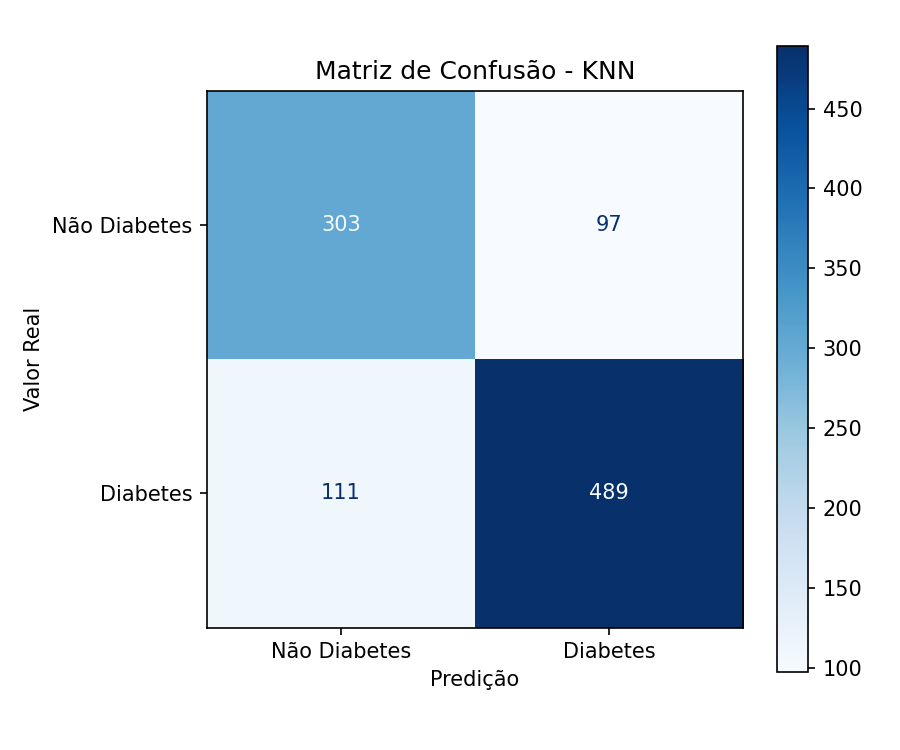
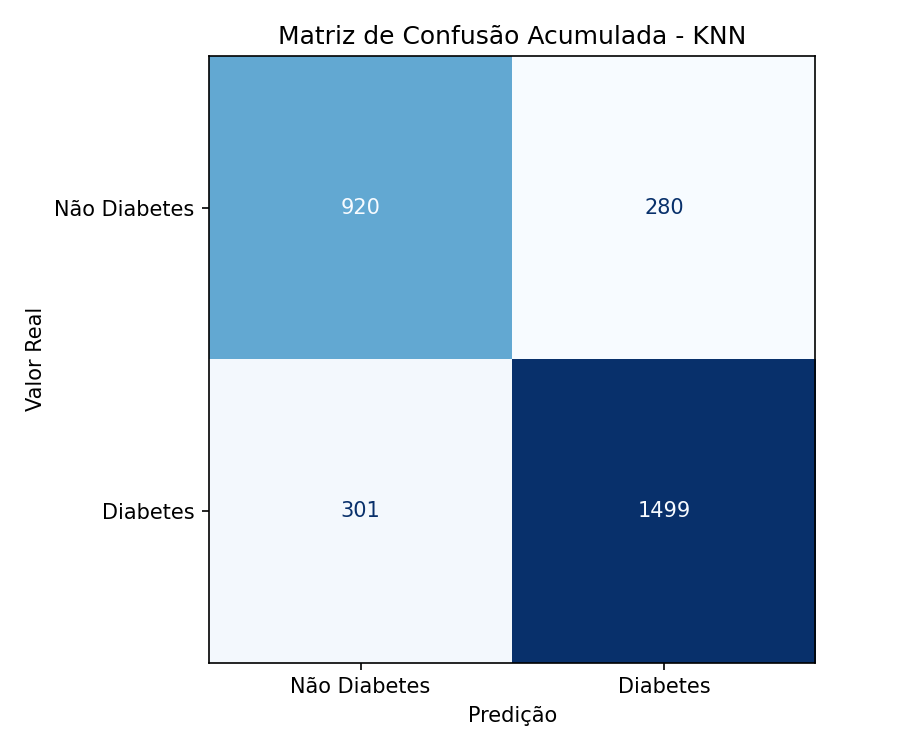
repeat algorithms and readme

diff --git a/Diabetes-Classification/src/main.py b/Diabetes-Classification/src/main.py
@@ -1,4 +1,5 @@
 from __future__ import annotations
+from collections import Counter
 import argparse
 from pathlib import Path
 import matplotlib
@@ -119,68 +120,97 @@ def _run_data_quality_assessment(
 
 
 def _evaluate_models(
-	X_train: np.ndarray,
-	X_test: np.ndarray,
-	y_train: np.ndarray,
-	y_test: np.ndarray,
-	feature_names: list[str],
+	raw_df: pd.DataFrame,
+	n_repeats: int,
 	output_dirs: dict[str, Path],
 ) -> pd.DataFrame:
 	models = get_all_models()
+	model_stats: dict[str, dict[str, object]] = {}
+
+	for model_name in models.keys():
+		model_stats[model_name] = {
+			"accuracy": [],
+			"precision": [],
+			"recall": [],
+			"f1_score": [],
+			"f1_cv_media": [],
+			"f1_cv_desvio": [],
+			"cm_sum": np.zeros((2, 2), dtype=int),
+			"top3_list": [],
+		}
+
+	for repeat_index in range(n_repeats):
+		repeat_seed = 42 + repeat_index
+		print(f"  Repetição {repeat_index + 1}/{n_repeats} (seed={repeat_seed})")
+
+		X_train, X_test, y_train, y_test, feature_names = prepare_features(
+			raw_df,
+			random_state=repeat_seed,
+		)
+
+		for model_name, pipeline in get_all_models().items():
+			cv = StratifiedKFold(n_splits=5, shuffle=True, random_state=repeat_seed)
+			cv_scores = cross_val_score(
+				pipeline,
+				X_train,
+				y_train,
+				cv=cv,
+				scoring="f1",
+				n_jobs=None,
+			)
+
+			pipeline.fit(X_train, y_train)
+			y_pred = pipeline.predict(X_test)
+			cm = confusion_matrix(y_test, y_pred)
+
+			feature_importances = get_selected_feature_importances(
+				trained_pipeline=pipeline,
+				feature_names=feature_names,
+			)
+			top3_features = ", ".join(
+				feature_name
+				for feature_name, _ in feature_importances[:3]
+			)
+
+			stats = model_stats[model_name]
+			stats["accuracy"].append(float(accuracy_score(y_test, y_pred)))
+			stats["precision"].append(float(precision_score(y_test, y_pred, zero_division=0)))
+			stats["recall"].append(float(recall_score(y_test, y_pred, zero_division=0)))
+			stats["f1_score"].append(float(f1_score(y_test, y_pred, zero_division=0)))
+			stats["f1_cv_media"].append(float(np.mean(cv_scores)))
+			stats["f1_cv_desvio"].append(float(np.std(cv_scores)))
+			stats["cm_sum"] += cm
+			stats["top3_list"].append(top3_features)
+
 	rows: list[dict[str, float | str]] = []
-
-	for model_name, pipeline in models.items():
-		print(f"Treinando {model_name}...")
-
-		cv = StratifiedKFold(n_splits=5, shuffle=True, random_state=42)
-		cv_scores = cross_val_score(
-			pipeline,
-			X_train,
-			y_train,
-			cv=cv,
-			scoring="f1",
-			n_jobs=None,
-		)
-
-		pipeline.fit(X_train, y_train)
-
-		y_pred = pipeline.predict(X_test)
-		cm = confusion_matrix(y_test, y_pred)
-		feature_importances = get_selected_feature_importances(
-			trained_pipeline=pipeline,
-			feature_names=feature_names,
-		)
-		top3_features = ", ".join(
-			feature_name
-			for feature_name, _ in feature_importances[:3]
-		)
+	for model_name, stats in model_stats.items():
+		most_common_top3 = Counter(stats["top3_list"]).most_common(1)[0][0]
+		cm_sum = stats["cm_sum"]
 
 		rows.append(
 			{
 				"modelo": model_name,
-				"top3_atributos": top3_features,
-				"f1_cv_media": float(np.mean(cv_scores)),
-				"f1_cv_desvio": float(np.std(cv_scores)),
-				"accuracy": accuracy_score(y_test, y_pred),
-				"precision": precision_score(y_test, y_pred, zero_division=0),
-				"recall": recall_score(y_test, y_pred, zero_division=0),
-				"f1_score": f1_score(y_test, y_pred, zero_division=0),
-				"verdadeiro_negativo": int(cm[0, 0]),
-				"falso_positivo": int(cm[0, 1]),
-				"falso_negativo": int(cm[1, 0]),
-				"verdadeiro_positivo": int(cm[1, 1]),
+				"top3_atributos": most_common_top3,
+				"f1_cv_media": float(np.mean(stats["f1_cv_media"])),
+				"f1_cv_desvio": float(np.mean(stats["f1_cv_desvio"])),
+				"accuracy": float(np.mean(stats["accuracy"])),
+				"precision": float(np.mean(stats["precision"])),
+				"recall": float(np.mean(stats["recall"])),
+				"f1_score": float(np.mean(stats["f1_score"])),
+				"verdadeiro_negativo": int(cm_sum[0, 0]),
+				"falso_positivo": int(cm_sum[0, 1]),
+				"falso_negativo": int(cm_sum[1, 0]),
+				"verdadeiro_positivo": int(cm_sum[1, 1]),
 			}
 		)
 
 		fig_cm, ax_cm = plt.subplots(figsize=(6, 5))
-		ConfusionMatrixDisplay.from_predictions(
-			y_test,
-			y_pred,
+		disp = ConfusionMatrixDisplay(
+			confusion_matrix=cm_sum,
 			display_labels=["Não Diabetes", "Diabetes"],
-			ax=ax_cm,
-			cmap="Blues",
 		)
-		ax_cm.set_title(f"Matriz de Confusão - {model_name}")
+		disp.plot(ax=ax_cm, cmap="Blues", colorbar=False)
+		ax_cm.set_title(f"Matriz de Confusão Acumulada - {model_name}")
 		ax_cm.set_xlabel("Predição")
 		ax_cm.set_ylabel("Valor Real")
 		fig_cm.tight_layout()
@@ -209,6 +239,12 @@ def main() -> None:
 		default="outputs",
 		help="Diretório para salvar tabelas e gráficos.",
 	)
+	parser.add_argument(
+		"--n-repeats",
+		type=int,
+		default=3,
+		help="Quantidade de repetições do experimento para média das métricas.",
+	)
 	args = parser.parse_args()
 
 	project_root = Path(__file__).resolve().parents[1]
@@ -224,14 +260,12 @@ def main() -> None:
 	print("[3/4] Avaliando qualidade dos dados e pré-processamento...")
 	_run_data_quality_assessment(df=raw_df, output_dirs=output_dirs)
 
-	print("[4/4] Treinando modelos e avaliando métricas (com validação cruzada)...")
-	X_train, X_test, y_train, y_test, feature_names = prepare_features(raw_df)
+	print(
+		f"[4/4] Treinando modelos e avaliando métricas (com validação cruzada e {args.n_repeats} repetições)..."
+	)
 	comparison_df = _evaluate_models(
-		X_train=X_train,
-		X_test=X_test,
-		y_train=y_train,
-		y_test=y_test,
-		feature_names=feature_names,
+		raw_df=raw_df,
+		n_repeats=args.n_repeats,
 		output_dirs=output_dirs,
 	)
 

diff --git a/Diabetes-Classification/src/preprocessing.py b/Diabetes-Classification/src/preprocessing.py
@@ -24,7 +24,7 @@ def load_raw_data(path: str, n_samples: int) -> pd.DataFrame:
     print(f"Dataset reduzido: {len(sampled_df)} linhas")
     return sampled_df
 
-def prepare_features(df: pd.DataFrame):
+def prepare_features(df: pd.DataFrame, random_state: int = 42):
     # Separar atributos e alvo
     X = df.drop(columns=[
         "diagnosed_diabetes",
@@ -37,7 +37,7 @@ def prepare_features(df: pd.DataFrame):
         X, y,
         test_size=0.2,
         stratify=y,
-        random_state=42
+        random_state=random_state
     )
     # Separa colunas categóricas e numéricas para evitar one-hot em variáveis contínuas.
     categorical_cols = X_train.select_dtypes(

diff --git a/README.md b/README.md
@@ -35,12 +35,11 @@ Segundo José Antonio Miguel Marcondes (2003), o diabete afeta aproximadamente d
 
 Este trabalho, desenvolvido na disciplina de Inteligência Computacional, utiliza a base pública **Diabetes Health Indicators Dataset** (Kaggle), com `100.000` registros e `31` atributos, para um problema de **classificação binária** cujo alvo é `diagnosed_diabetes` (`0` ou `1`). A base reúne variáveis sociodemográficas, hábitos de vida, histórico clínico e biomarcadores, o que a torna adequada ao enunciado por conter atributos heterogêneos e permitir uma metodologia experimental realista.
 
+Com base nas dificuldades que serão apresentadas posteriormente, necessitou-se da aplicação de etapas de pré-processamento, dentre elas a codificação de atributos categóricos (através do `OneHotEncoder` da biblioteca `sklearn`), a separação estratificada entre treino e teste, a padronização de atributos numéricos para modelos sensíveis à escala (`KNN` e `SVM`) e a seleção embarcada de atributos com `SelectFromModel` + `RandomForestClassifier`. Em conjunto, essas etapas reduziram ruído, preservaram representatividade da classe-alvo e melhoraram a comparabilidade entre os classificadores.
 
 ## Metodologia Adotada e Consolidação no Código
 
-As implementações principais estão em `Diabetes-Classification/src/preprocessing.py`, `Diabetes-Classification/src/models.py` e `Diabetes-Classification/src/main.py`. O fluxo foi simplificado para priorizar o que o enunciado e a orientação docente cobram com maior ênfase: **processamento dos dados e modelagem**, mantendo avaliação objetiva e reprodutível.
-
-No pré-processamento foi mantida a amostragem estratificada (quando aplicável), garantindo representatividade da classe-alvo ao reduzir a base:
+As implementações principais estão em `Diabetes-Classification/src/preprocessing.py`, `Diabetes-Classification/src/models.py` e `Diabetes-Classification/src/main.py`. O fluxo foi simplificado para priorizar o que o enunciado e a orientação docente cobram com maior ênfase que é processamento dos dados e modelagem, mantendo avaliação objetiva e reprodutível. No pré-processamento foi mantida a amostragem estratificada (quando aplicável), garantindo representatividade da classe-alvo ao reduzir a base:
 
 ```python
 if n_samples < len(df):
@@ -66,7 +65,7 @@ resumo_exploratorio = pd.DataFrame(
 )
 ```
 
-No `main.py`, a função `_run_data_quality_assessment` consolida integridade da base em um único resumo com: total de ausentes, total de duplicados, proporção da classe positiva e maior percentual de outliers por IQR. A avaliação de qualidade continua formal, mas enxuta, reduzindo excesso de artefatos e mantendo rastreabilidade para decisões de processamento. Quando aplicável, as decisões de tratamento são tomadas a partir desses indicadores, nesta base/amostra atual, os resultados indicaram ausência de valores faltantes e duplicatas, não exigindo imputação ou deduplicação adicional nesta etapa.
+No `main.py`, a função `_run_data_quality_assessment` consolida integridade da base em um único resumo com total de ausentes, total de duplicados, proporção da classe positiva e maior percentual de outliers por IQR. A avaliação de qualidade continua formal, mas enxuta, reduzindo excesso de artefatos e mantendo rastreabilidade para decisões de processamento. Quando aplicável, as decisões de tratamento são tomadas a partir desses indicadores, nesta base/amostra atual, os resultados indicaram ausência de valores faltantes e duplicatas, não exigindo imputação ou deduplicação adicional nesta etapa.
 
 ```python
     quality_summary = {
@@ -78,10 +77,11 @@ No `main.py`, a função `_run_data_quality_assessment` consolida integridade da
     }
 ```
 
-A função `_evaluate_models` treina `KNN`, `SVM` e `DecisionTree` sob o mesmo protocolo, calcula `accuracy`, `precision`, `recall`, `f1-score`, componentes da matriz de confusão e adiciona validação cruzada estratificada para robustez. A avaliação multimensura evita decisões baseadas só em acurácia e permite observar o equilíbrio dos erros por matriz de confusão.
+A função `_evaluate_models` treina `KNN`, `SVM` e `DecisionTree` sob o mesmo protocolo, calcula `accuracy`, `precision`, `recall`, `f1-score`, componentes da matriz de confusão e adiciona validação cruzada estratificada para robustez. Para justiça experimental, cada modelo é avaliado em **3 repetições** com sementes distintas e as métricas finais são reportadas por **média**, reduzindo viés de uma única partição treino/teste.
 
 ```python
-    cv = StratifiedKFold(n_splits=5, shuffle=True, random_state=42)
+    repeat_seed = 42 + repeat_index
+    cv = StratifiedKFold(n_splits=5, shuffle=True, random_state=repeat_seed)
     cv_scores = cross_val_score(
         pipeline,
         X_train,
@@ -95,26 +95,26 @@ A função `_evaluate_models` treina `KNN`, `SVM` e `DecisionTree` sob o mesmo p
     rows.append(
         {
             "modelo": model_name,
-            "f1_cv_media": float(np.mean(cv_scores)),
-            "f1_cv_desvio": float(np.std(cv_scores)),
-            "accuracy": accuracy_score(y_test, y_pred),
-            "precision": precision_score(y_test, y_pred, zero_division=0),
-            "recall": recall_score(y_test, y_pred, zero_division=0),
-            "f1_score": f1_score(y_test, y_pred, zero_division=0),
-            "verdadeiro_negativo": int(cm[0, 0]),
-            "falso_positivo": int(cm[0, 1]),
-            "falso_negativo": int(cm[1, 0]),
-            "verdadeiro_positivo": int(cm[1, 1]),
+            "f1_cv_media": float(np.mean(stats["f1_cv_media"])),
+            "f1_cv_desvio": float(np.mean(stats["f1_cv_desvio"])),
+            "accuracy": float(np.mean(stats["accuracy"])),
+            "precision": float(np.mean(stats["precision"])),
+            "recall": float(np.mean(stats["recall"])),
+            "f1_score": float(np.mean(stats["f1_score"])),
+            "verdadeiro_negativo": int(cm_sum[0, 0]),
+            "falso_positivo": int(cm_sum[0, 1]),
+            "falso_negativo": int(cm_sum[1, 0]),
+            "verdadeiro_positivo": int(cm_sum[1, 1]),
         }
 )
 ```
 
-Para manter o foco pedagógico em modelagem, a discussão final é feita a partir das tabelas e matrizes de confusão geradas: comparação dos `f1_cv_media` e `f1_score`, análise de falsos positivos/falsos negativos e leitura dos `top3_atributos` por modelo. Isso mantém a entrega enxuta e suficiente para discutir decisões metodológicas sem excesso de visualizações.
+Para manter o foco pedagógico em modelagem, a discussão final é feita a partir das tabelas e matrizes de confusão geradas como comparação dos `f1_cv_media` e `f1_score`, análise de falsos positivos/falsos negativos e leitura dos `top3_atributos` por modelo. Isso mantém a entrega enxuta e suficiente para discutir decisões metodológicas sem excesso de visualizações.
 
 
 ## Resultados
 
-Os resultados abaixo referem-se à execução com `n_samples=5000`, seguindo o protocolo implementado no `main.py`.
+Os resultados abaixo referem-se à execução com `n_samples=5000` e `n_repeats=3`, seguindo o protocolo implementado no `main.py`.
 
 - Total de registros analisados: `5000`
 - Valores ausentes: `0`
@@ -126,9 +126,9 @@ Os resultados abaixo referem-se à execução com `n_samples=5000`, seguindo o p
 
 | Modelo | F1 (CV média) | F1 (teste) | Accuracy | Precision | Recall |
 |---|---:|---:|---:|---:|---:|
-| SVM | 0.8860 | **0.8692** | **0.8510** | **0.9184** | 0.8250 |
-| DecisionTree | **0.8885** | 0.8623 | 0.8330 | 0.8532 | **0.8717** |
-| KNN | 0.8361 | 0.8246 | 0.7920 | 0.8345 | 0.8150 |
+| SVM | 0.8816 | **0.8858** | **0.8680** | **0.9198** | 0.8544 |
+| DecisionTree | **0.8863** | 0.8800 | 0.8543 | 0.8702 | **0.8900** |
+| KNN | 0.8313 | 0.8376 | 0.8063 | 0.8426 | 0.8328 |
 
 Top-3 atributos mais relevantes (comum aos modelos nesta execução): `hba1c`, `glucose_postprandial`, `glucose_fasting`.
 
@@ -145,9 +145,9 @@ Top-3 atributos mais relevantes (comum aos modelos nesta execução): `hba1c`, `
 </p>
 
 
-1. `SVM` apresentou o melhor equilíbrio no conjunto de teste, com maior `F1-score` e maior `accuracy`.
+1. `SVM` apresentou o melhor equilíbrio nas métricas médias de teste, com maior `F1-score` e maior `accuracy` após 3 repetições.
 2. `DecisionTree` teve melhor média de `F1` na validação cruzada e maior `recall`, indicando maior sensibilidade para detectar casos positivos.
-3. `KNN` ficou abaixo dos demais nas métricas gerais para este cenário.
+3. `KNN` ficou abaixo dos demais nas métricas médias para este cenário.
 4. A consistência dos atributos `hba1c`, `glucose_postprandial` e `glucose_fasting` reforça sua relevância clínica na predição.
 5. Como encaminhamento metodológico, a escolha final do modelo deve considerar o trade-off entre `precision` e `recall` conforme o objetivo prático (minimizar falsos positivos ou falsos negativos).
 
@@ -164,7 +164,7 @@ Execução do pipeline atual:
 
 ```bash
 cd Diabetes-Classification
-python src/main.py --n-samples 5000
+python src/main.py --n-samples 5000 --n-repeats 3
 ```
 
 Ao final da execução, são gerados artefatos em `Diabetes-Classification/outputs/`:
